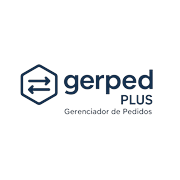
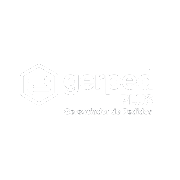
Auto-commit: 2026-02-09 23:17:19
Arquivos modificados:
- .ops/favicon_backup/20260209231340/apple-touch-icon.png
- .ops/favicon_backup/20260209231340/favicon-16.png
- .ops/favicon_backup/20260209231340/favicon-32.png
- .ops/favicon_backup/20260209231340/favicon.ico
- meu_app/static/images/apple-touch-icon.png
- ... e mais 4 arquivo(s)

Changed region(s): [[0.1111, 0.3611, 0.8611, 0.5833], [0.3611, 0.5833, 0.8611, 0.6389], [0.6667, 0.5278, 0.8611, 0.5833]]

diff --git a/scripts/recolor_favicons_white.py b/scripts/recolor_favicons_white.py
@@ -1,0 +1,58 @@
+from __future__ import annotations
+
+from pathlib import Path
+
+from PIL import Image
+
+
+ROOT = Path(__file__).resolve().parents[1]
+IMG_DIR = ROOT / "meu_app" / "static" / "images"
+
+FILES = {
+    "favicon-16.png": (16, 16),
+    "favicon-32.png": (32, 32),
+    "apple-touch-icon.png": (180, 180),
+}
+
+
+def recolor_to_white_keep_bg(img: Image.Image, bg_threshold: int = 20) -> Image.Image:
+    """Turn non-background pixels (not near black) into white.
+
+    These assets were rendered on a black background, so a simple threshold is reliable.
+    """
+
+    rgba = img.convert("RGBA")
+    px = rgba.load()
+    w, h = rgba.size
+
+    for y in range(h):
+        for x in range(w):
+            r, g, b, a = px[x, y]
+            # Treat near-black as background and keep it.
+            if max(r, g, b) <= bg_threshold:
+                continue
+            # Convert foreground to white, preserve alpha for anti-aliasing.
+            px[x, y] = (255, 255, 255, a)
+
+    return rgba
+
+
+def main() -> None:
+    for name, expected_size in FILES.items():
+        p = IMG_DIR / name
+        img = Image.open(p)
+        if img.size != expected_size:
+            raise SystemExit(f"{name}: expected size {expected_size}, got {img.size}")
+        out = recolor_to_white_keep_bg(img)
+        out.save(p)
+        print(f"updated {p}")
+
+    # Rebuild favicon.ico with multiple sizes from the 32px source.
+    src32 = Image.open(IMG_DIR / "favicon-32.png").convert("RGBA")
+    ico_path = IMG_DIR / "favicon.ico"
+    src32.save(ico_path, sizes=[(16, 16), (32, 32), (48, 48)])
+    print(f"rebuilt {ico_path}")
+
+
+if __name__ == "__main__":
+    main()
